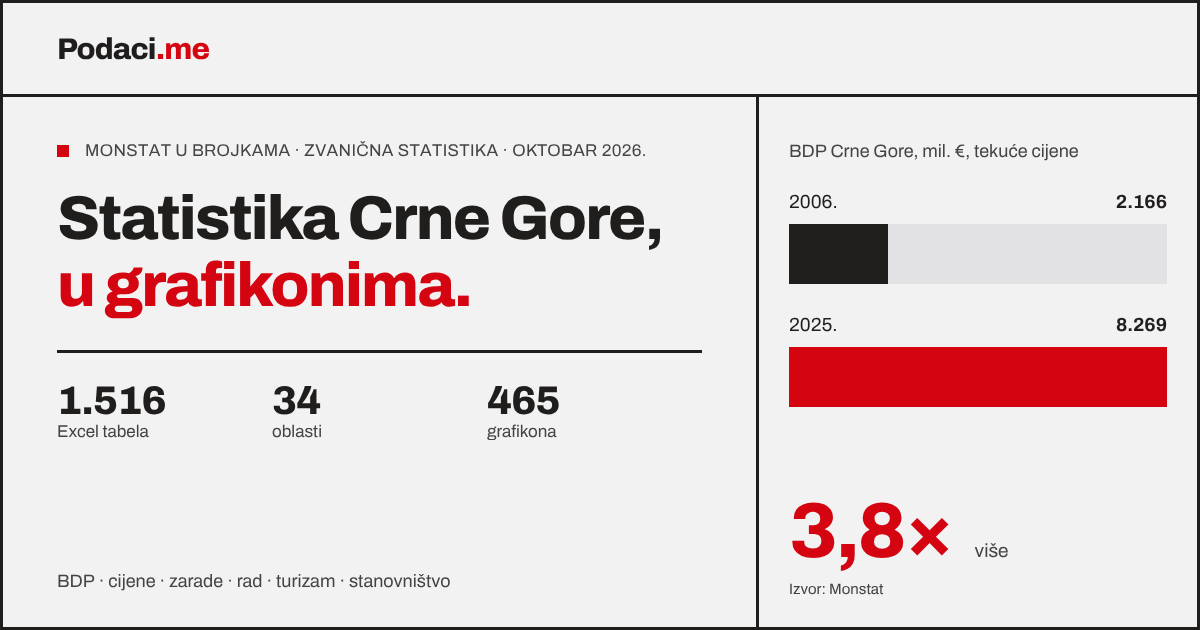
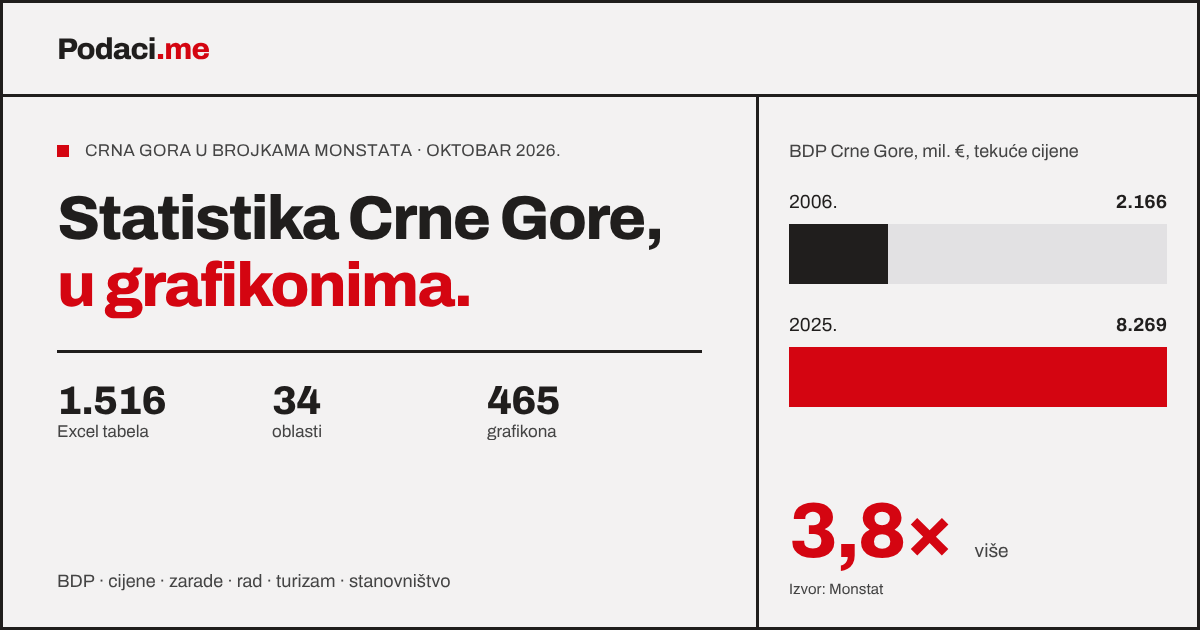
Početna i OG slika: Crna Gora u brojkama Monstata

Changed region(s): [[0.0617, 0.2111, 0.5242, 0.2714]]

diff --git a/index.html b/index.html
@@ -172,7 +172,7 @@ a.area:hover h3{color:var(--accent-text)}
           <a class="an" href="/analize/crna-gora-u-brojkama-monstata/">
             <p class="an__meta"><time datetime="2026-10-29">29. 10. 2026.</time><b>Zvanična statistika</b><span>34 oblasti</span></p>
             <div class="an__body">
-              <h3>Monstat u brojkama: zvanična statistika Crne Gore u grafikonima</h3>
+              <h3>Crna Gora u brojkama Monstata: zvanična statistika u grafikonima</h3>
               <p class="dek">Sve tabele Uprave za statistiku pretvorene u interaktivne i animirane grafikone: BDP, cijene, zarade, rad, turizam, stanovništvo i privreda. Svaki broj vodi do izvorne tabele.</p>
               <span class="an__go">Otvorite analizu <span class="arr" aria-hidden="true">→</span></span>
             </div>
@@ -262,7 +262,7 @@ a.area:hover h3{color:var(--accent-text)}
 <footer class="gf">
   <div class="wrap">
     <span>© 2026 Podaci.me · Fidelity Consulting d.o.o. Podgorica</span>
-    <span><a href="/analize/velje-brdo/">Velje brdo</a> · <a href="/analize/crna-gora-singapur/">Crna Gora i Singapur</a> · <a href="/analize/crna-gora-u-brojkama-monstata/">Monstat u brojkama</a> · <a href="https://www.tendering.me/">Tendering.me</a></span>
+    <span><a href="/analize/velje-brdo/">Velje brdo</a> · <a href="/analize/crna-gora-singapur/">Crna Gora i Singapur</a> · <a href="/analize/crna-gora-u-brojkama-monstata/">Crna Gora u brojkama Monstata</a> · <a href="https://www.tendering.me/">Tendering.me</a></span>
     <span>Biznis analitika iz Crne Gore i svijeta.</span>
   </div>
 </footer>

diff --git a/README.md b/README.md
@@ -22,7 +22,7 @@ analize/velje-brdo/story.css               scene analize
 analize/velje-brdo/story.js                grafikoni i scene analize (grade se kad se čitalac približi)
 analize/velje-brdo/img/                    Sentinel-2 snimci: original .jpg/.png + .webp (1100 i 720 px) + crno-bijela verzija (-bw)
 analize/crna-gora-singapur/                Crna Gora i Singapur: 7 poglavlja (A Država … G Dokazi); story.css i story.js (sticky scena „Četiri omjera“)
-analize/crna-gora-u-brojkama-monstata/index.html     Monstat u brojkama: samostalna stranica (34 oblasti, 465 grafikona, d3 sa CDN-a); vlastiti CSS, zaglavlje i podnožje kao na sajtu
+analize/crna-gora-u-brojkama-monstata/index.html     Crna Gora u brojkama Monstata: samostalna stranica (34 oblasti, 465 grafikona, d3 sa CDN-a); vlastiti CSS, zaglavlje i podnožje kao na sajtu
 arhiva/skupstina-vmidmiko5c/index.html     Skupštinski monitor 2023–2026, sakriven: bez linkova, noindex, van sitemapa;
                                            stara adresa /analize/skupstina-2023-2026/ vodi na početnu (vercel.json)
 og-image.png, og-velje-brdo.png, og-crna-gora-singapur.png, og-monstat-u-brojkama.png, og-skupstina.png, favicon.svg, fidelity-logo.svg
